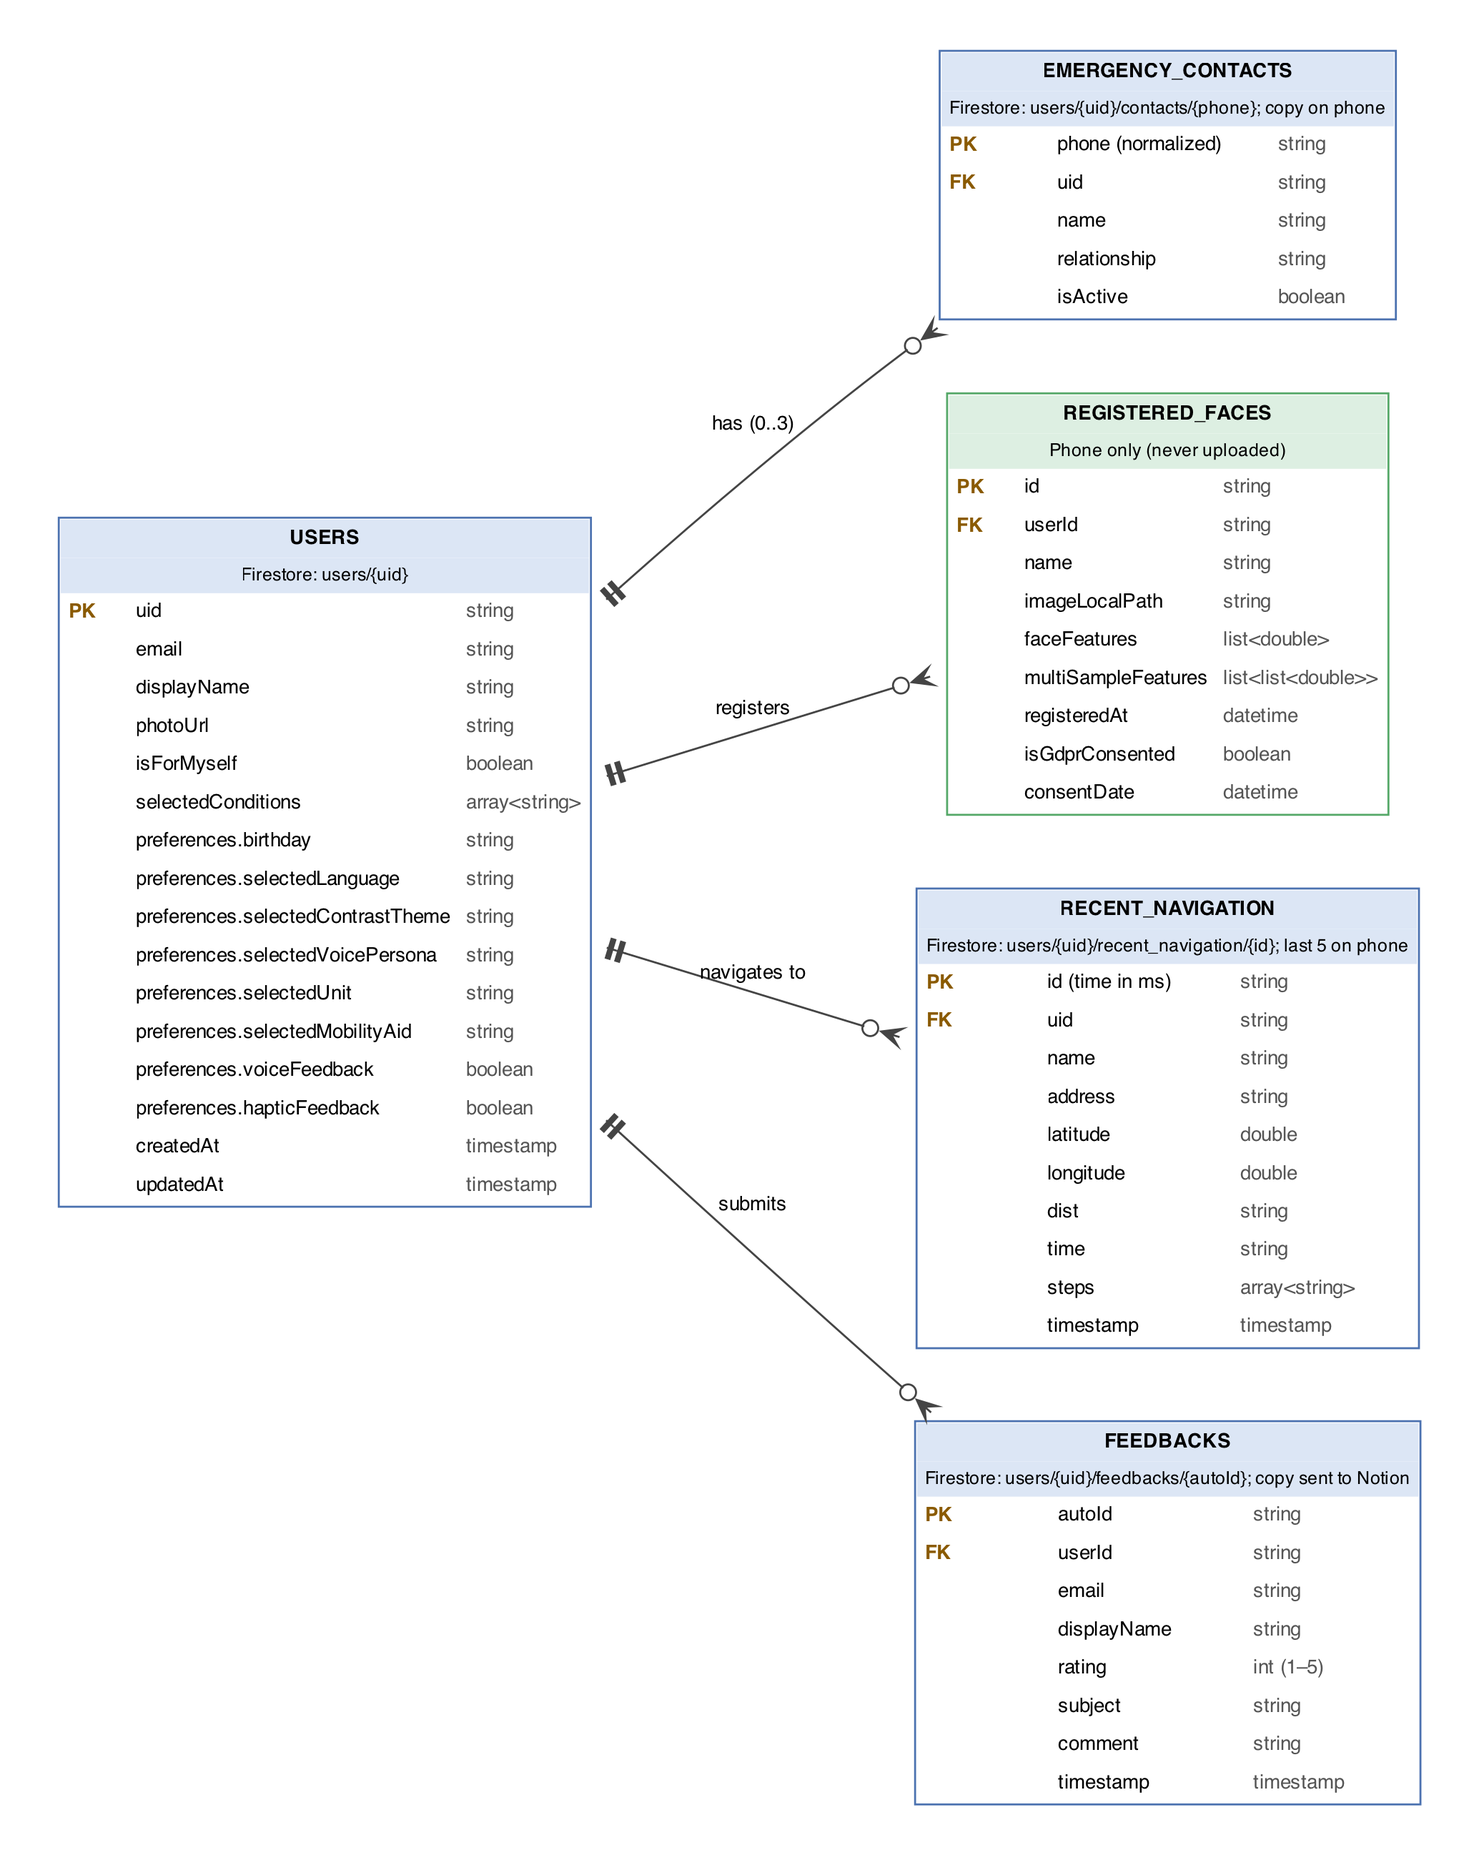
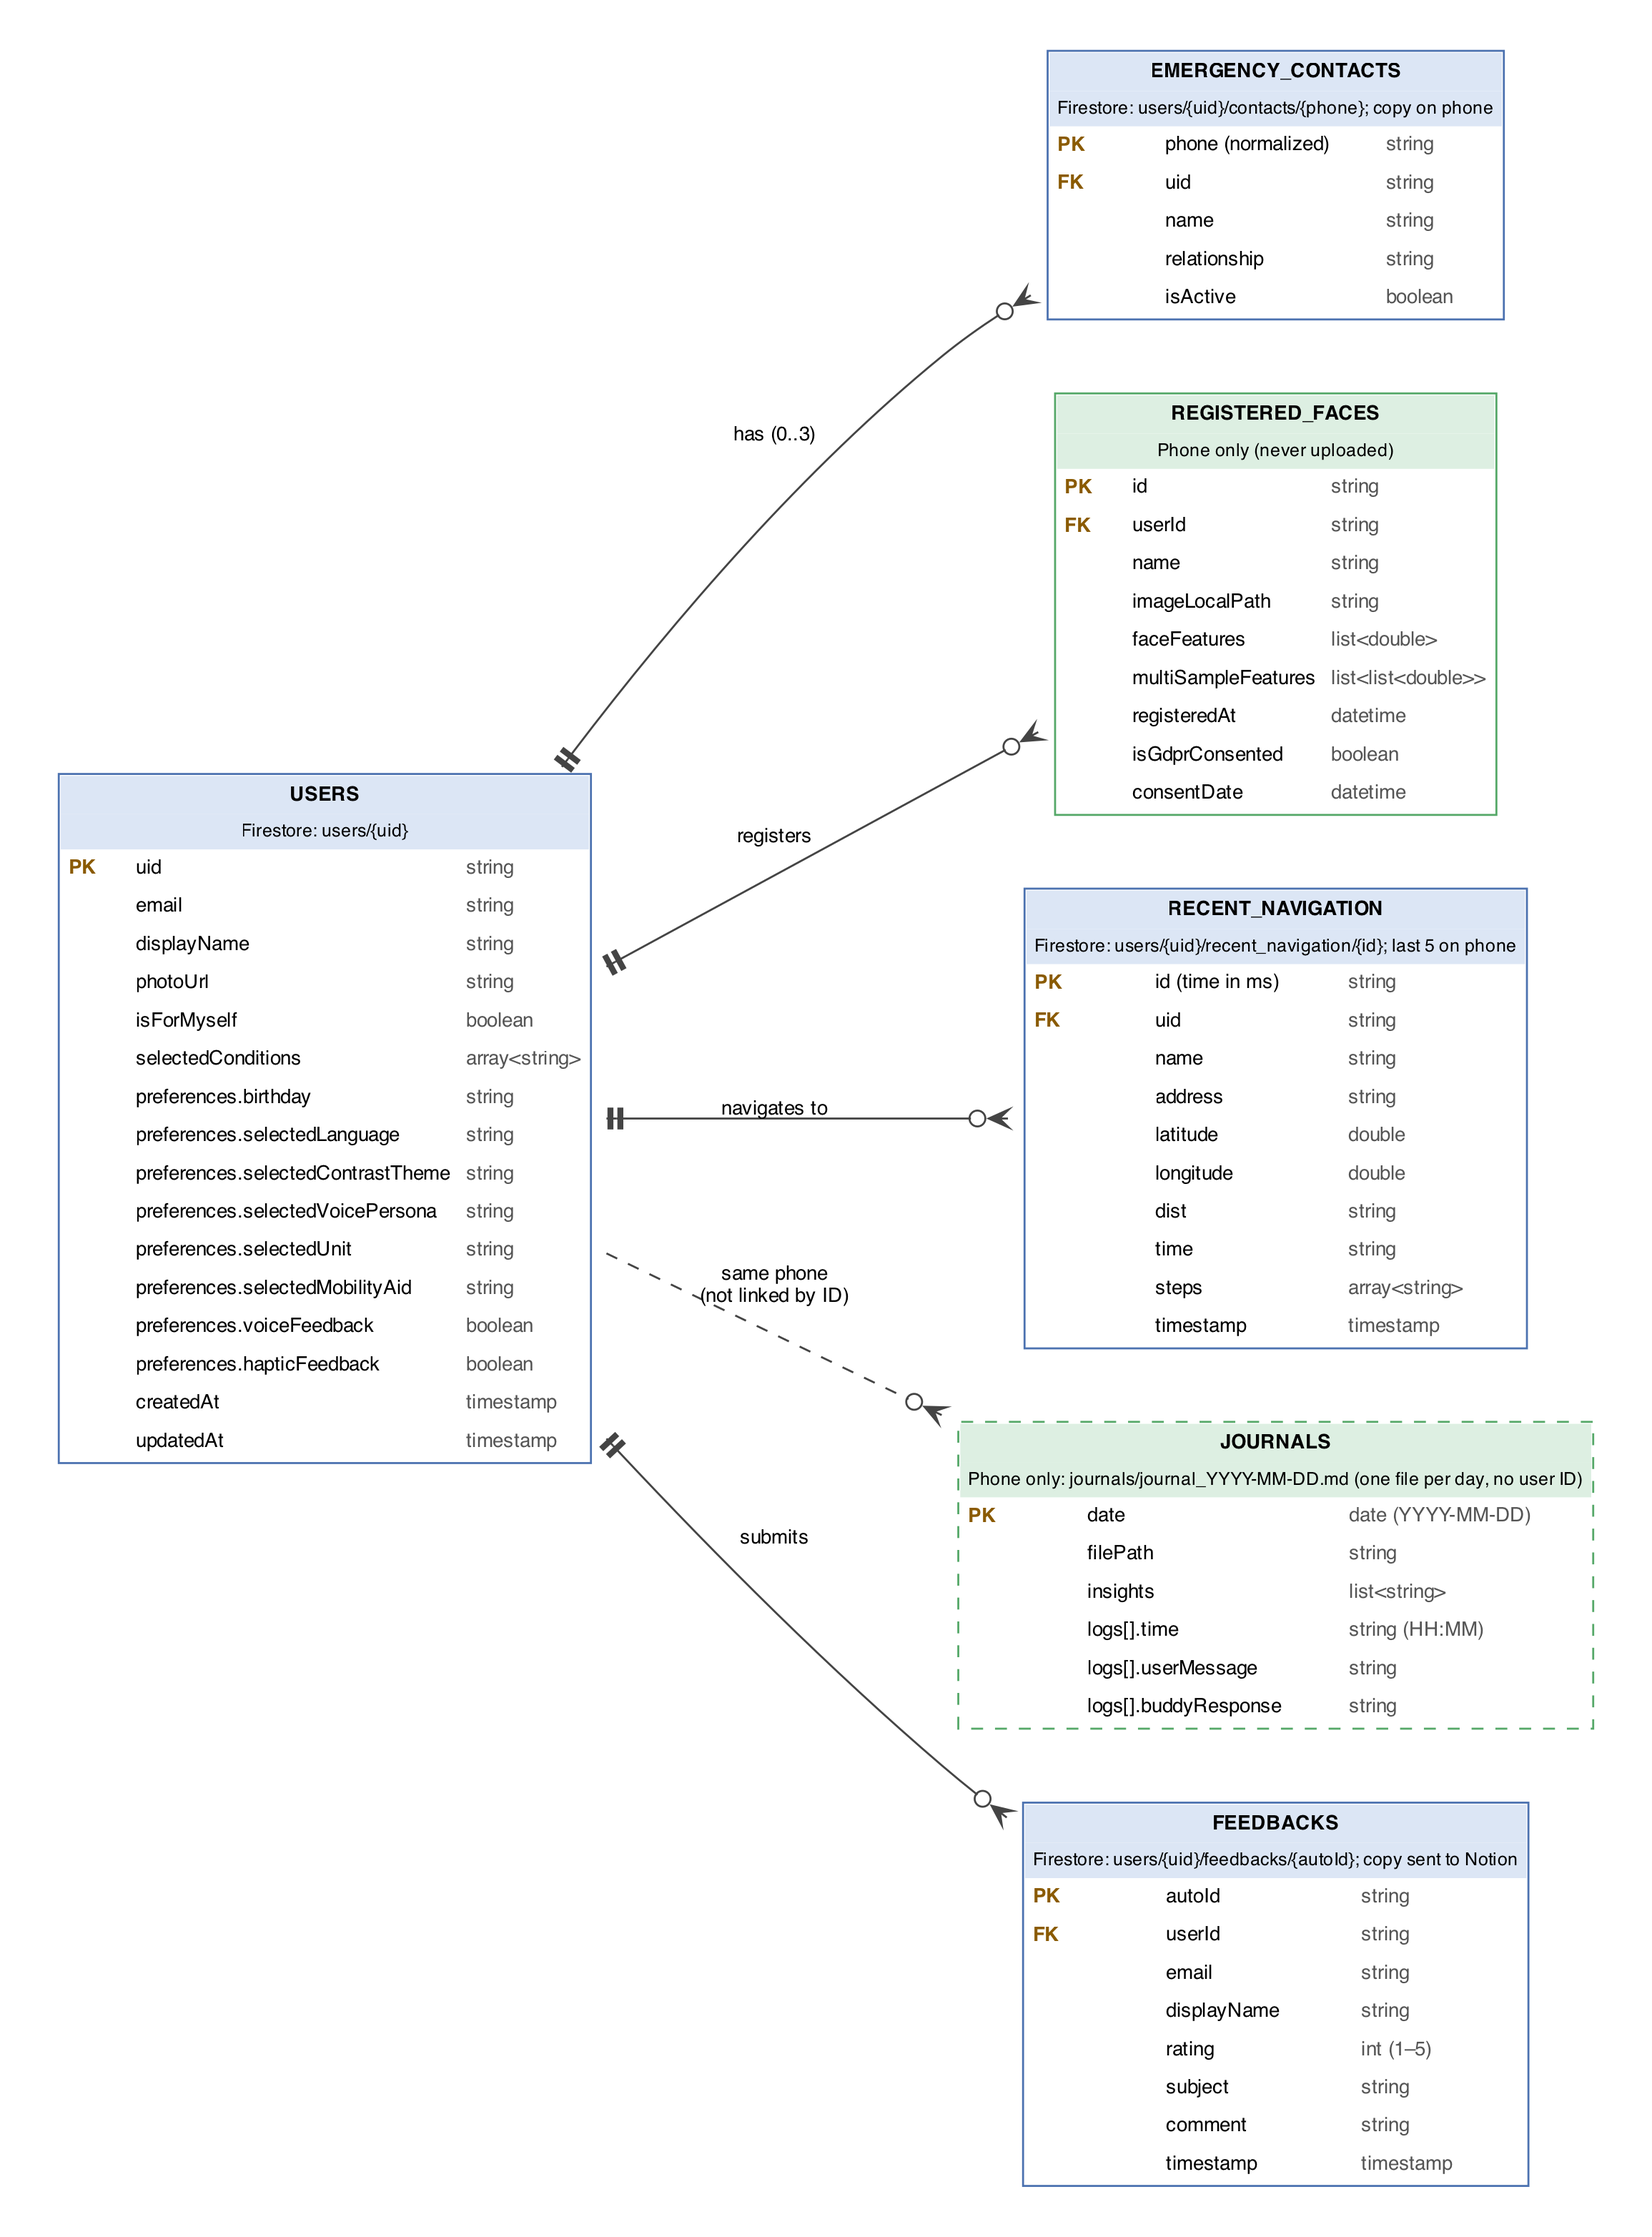
docs(figures): add JOURNAL entity to Appendix F ERDs

diff --git a/docs/figures/10_appendix_f_entity_relationship.md b/docs/figures/10_appendix_f_entity_relationship.md
@@ -1,6 +1,6 @@
 # Appendix F: Entity Relationship Diagrams
 
-Both diagrams show the data EasyLens actually stores, checked against the current code (`upstream/main`, commit `c10062e`). EasyLens has no SQL database: account data is stored in Google Cloud Firestore (a document database), and registered faces, settings and a copy of the emergency contacts are stored on the phone. In Figure F.2, each Firestore subcollection is shown as a table whose foreign key is the parent user document (`users/{uid}`).
+Both diagrams show the data EasyLens actually stores, checked against the current code (`upstream/main`, commit `c10062e`). EasyLens has no SQL database: account data is stored in Google Cloud Firestore (a document database), and registered faces, Buddy's interaction journals, settings and a copy of the emergency contacts are stored on the phone. In Figure F.2, each Firestore subcollection is shown as a table whose foreign key is the parent user document (`users/{uid}`).
 
 ---
 
@@ -15,7 +15,7 @@ Both diagrams show the data EasyLens actually stores, checked against the curren
 Figure F.1
 Conceptual Entity Relationship Diagram
 
-Note. Figure F.1 shows the main data entities in EasyLens and how they relate to the user, in Chen notation. A user can add up to three emergency contacts, and can register any number of faces, navigate to any number of destinations, and submit any number of feedback entries.
+Note. Figure F.1 shows the main data entities in EasyLens and how they relate to the user, in Chen notation. A user can add up to three emergency contacts, and can register any number of faces, navigate to any number of destinations, and submit any number of feedback entries. Buddy's conversations are logged in daily journals; the dashed line shows that journals are kept on the phone but are not linked to a user account.
 ```
 
 ### Source (Graphviz)
@@ -28,16 +28,18 @@ graph F1 {
 
   node [shape=box, style="filled,bold", fillcolor="#EEF3FB", color="#4C72B0", width=1.9, height=0.6];
   USER    [label="USER", pos="0,0!"];
-  CONTACT [label="EMERGENCY CONTACT", pos="5.2,2.2!"];
-  FACE    [label="REGISTERED FACE", pos="5.2,0.7!"];
-  DEST    [label="RECENT DESTINATION", pos="5.2,-0.8!"];
-  FB      [label="FEEDBACK", pos="5.2,-2.3!"];
+  CONTACT [label="EMERGENCY CONTACT", pos="5.2,3.0!"];
+  FACE    [label="REGISTERED FACE", pos="5.2,1.5!"];
+  DEST    [label="RECENT DESTINATION", pos="5.2,0!"];
+  FB      [label="FEEDBACK", pos="5.2,-1.5!"];
+  JOURNAL [label="JOURNAL", pos="5.2,-3.0!", style="filled,bold,dashed"];
 
   node [shape=diamond, style=filled, fillcolor="#FFF6E5", color="#DD8452", width=1.5, height=0.8, fontsize=11];
-  R1 [label="adds", pos="2.6,2.2!"];
-  R2 [label="registers", pos="2.6,0.7!"];
-  R3 [label="navigates to", pos="2.6,-0.8!"];
-  R4 [label="submits", pos="2.6,-2.3!"];
+  R1 [label="adds", pos="2.6,3.0!"];
+  R2 [label="registers", pos="2.6,1.5!"];
+  R3 [label="navigates to", pos="2.6,0!"];
+  R4 [label="submits", pos="2.6,-1.5!"];
+  R5 [label="talks to Buddy,\nlogged in", pos="2.6,-3.0!", width=1.9, height=1.0];
 
   USER -- R1 [headlabel="", taillabel="1", labeldistance=2.2];
   R1 -- CONTACT [headlabel="0..3", labeldistance=2.2];
@@ -47,6 +49,8 @@ graph F1 {
   R3 -- DEST [headlabel="0..N", labeldistance=2.2];
   USER -- R4 [taillabel="1", labeldistance=2.2];
   R4 -- FB [headlabel="0..N", labeldistance=2.2];
+  USER -- R5 [taillabel="1", labeldistance=2.2, style=dashed];
+  R5 -- JOURNAL [headlabel="0..N", labeldistance=2.2, style=dashed];
 }
 ```
 
@@ -63,7 +67,7 @@ graph F1 {
 Figure F.2
 Relational Entity Relationship Diagram
 
-Note. Figure F.2 lists the fields, data types, primary keys (PK) and foreign keys (FK) of each entity, in crow's foot notation, with where each is stored. USERS, EMERGENCY_CONTACTS, RECENT_NAVIGATION and FEEDBACKS are stored in Google Cloud Firestore; emergency contacts and the last five destinations are also kept on the phone. REGISTERED_FACES is stored only on the phone and is never uploaded. Submitted feedback is also copied to a Notion database.
+Note. Figure F.2 lists the fields, data types, primary keys (PK) and foreign keys (FK) of each entity, in crow's foot notation, with where each is stored. USERS, EMERGENCY_CONTACTS, RECENT_NAVIGATION and FEEDBACKS are stored in Google Cloud Firestore; emergency contacts and the last five destinations are also kept on the phone. REGISTERED_FACES and JOURNALS are stored only on the phone (shown in green). JOURNALS holds one file per day with Buddy's conversation logs and short notes about the user; it has no user ID, so every account signed in on the same phone shares it (dashed line). Submitted feedback is also copied to a Notion database.
 ```
 
 ### Source (Graphviz)
@@ -77,10 +81,12 @@ digraph F2 {
   CONTACTS [label=<<table border="1" cellborder="0" cellspacing="0" cellpadding="4" color="#4C72B0"><tr><td colspan="3" bgcolor="#DCE6F5"><b>EMERGENCY_CONTACTS</b></td></tr><tr><td colspan="3" bgcolor="#DCE6F5"><font point-size="9">Firestore: users/{uid}/contacts/{phone}; copy on phone</font></td></tr><tr><td align="left" width="34"><font color="#8A5A00"><b>PK</b></font></td><td align="left">phone (normalized)</td><td align="left"><font color="#555555">string</font></td></tr><tr><td align="left" width="34"><font color="#8A5A00"><b>FK</b></font></td><td align="left">uid</td><td align="left"><font color="#555555">string</font></td></tr><tr><td align="left" width="34"></td><td align="left">name</td><td align="left"><font color="#555555">string</font></td></tr><tr><td align="left" width="34"></td><td align="left">relationship</td><td align="left"><font color="#555555">string</font></td></tr><tr><td align="left" width="34"></td><td align="left">isActive</td><td align="left"><font color="#555555">boolean</font></td></tr></table>>];
   FACES [label=<<table border="1" cellborder="0" cellspacing="0" cellpadding="4" color="#55A868"><tr><td colspan="3" bgcolor="#DDEFE2"><b>REGISTERED_FACES</b></td></tr><tr><td colspan="3" bgcolor="#DDEFE2"><font point-size="9">Phone only (never uploaded)</font></td></tr><tr><td align="left" width="34"><font color="#8A5A00"><b>PK</b></font></td><td align="left">id</td><td align="left"><font color="#555555">string</font></td></tr><tr><td align="left" width="34"><font color="#8A5A00"><b>FK</b></font></td><td align="left">userId</td><td align="left"><font color="#555555">string</font></td></tr><tr><td align="left" width="34"></td><td align="left">name</td><td align="left"><font color="#555555">string</font></td></tr><tr><td align="left" width="34"></td><td align="left">imageLocalPath</td><td align="left"><font color="#555555">string</font></td></tr><tr><td align="left" width="34"></td><td align="left">faceFeatures</td><td align="left"><font color="#555555">list&lt;double&gt;</font></td></tr><tr><td align="left" width="34"></td><td align="left">multiSampleFeatures</td><td align="left"><font color="#555555">list&lt;list&lt;double&gt;&gt;</font></td></tr><tr><td align="left" width="34"></td><td align="left">registeredAt</td><td align="left"><font color="#555555">datetime</font></td></tr><tr><td align="left" width="34"></td><td align="left">isGdprConsented</td><td align="left"><font color="#555555">boolean</font></td></tr><tr><td align="left" width="34"></td><td align="left">consentDate</td><td align="left"><font color="#555555">datetime</font></td></tr></table>>];
   DEST [label=<<table border="1" cellborder="0" cellspacing="0" cellpadding="4" color="#4C72B0"><tr><td colspan="3" bgcolor="#DCE6F5"><b>RECENT_NAVIGATION</b></td></tr><tr><td colspan="3" bgcolor="#DCE6F5"><font point-size="9">Firestore: users/{uid}/recent_navigation/{id}; last 5 on phone</font></td></tr><tr><td align="left" width="34"><font color="#8A5A00"><b>PK</b></font></td><td align="left">id (time in ms)</td><td align="left"><font color="#555555">string</font></td></tr><tr><td align="left" width="34"><font color="#8A5A00"><b>FK</b></font></td><td align="left">uid</td><td align="left"><font color="#555555">string</font></td></tr><tr><td align="left" width="34"></td><td align="left">name</td><td align="left"><font color="#555555">string</font></td></tr><tr><td align="left" width="34"></td><td align="left">address</td><td align="left"><font color="#555555">string</font></td></tr><tr><td align="left" width="34"></td><td align="left">latitude</td><td align="left"><font color="#555555">double</font></td></tr><tr><td align="left" width="34"></td><td align="left">longitude</td><td align="left"><font color="#555555">double</font></td></tr><tr><td align="left" width="34"></td><td align="left">dist</td><td align="left"><font color="#555555">string</font></td></tr><tr><td align="left" width="34"></td><td align="left">time</td><td align="left"><font color="#555555">string</font></td></tr><tr><td align="left" width="34"></td><td align="left">steps</td><td align="left"><font color="#555555">array&lt;string&gt;</font></td></tr><tr><td align="left" width="34"></td><td align="left">timestamp</td><td align="left"><font color="#555555">timestamp</font></td></tr></table>>];
+  JOURNAL [label=<<table border="1" cellborder="0" cellspacing="0" cellpadding="4" color="#55A868" style="dashed"><tr><td colspan="3" bgcolor="#DDEFE2"><b>JOURNALS</b></td></tr><tr><td colspan="3" bgcolor="#DDEFE2"><font point-size="9">Phone only: journals/journal_YYYY-MM-DD.md (one file per day, no user ID)</font></td></tr><tr><td align="left" width="34"><font color="#8A5A00"><b>PK</b></font></td><td align="left">date</td><td align="left"><font color="#555555">date (YYYY-MM-DD)</font></td></tr><tr><td align="left" width="34"></td><td align="left">filePath</td><td align="left"><font color="#555555">string</font></td></tr><tr><td align="left" width="34"></td><td align="left">insights</td><td align="left"><font color="#555555">list&lt;string&gt;</font></td></tr><tr><td align="left" width="34"></td><td align="left">logs[].time</td><td align="left"><font color="#555555">string (HH:MM)</font></td></tr><tr><td align="left" width="34"></td><td align="left">logs[].userMessage</td><td align="left"><font color="#555555">string</font></td></tr><tr><td align="left" width="34"></td><td align="left">logs[].buddyResponse</td><td align="left"><font color="#555555">string</font></td></tr></table>>];
   FB [label=<<table border="1" cellborder="0" cellspacing="0" cellpadding="4" color="#4C72B0"><tr><td colspan="3" bgcolor="#DCE6F5"><b>FEEDBACKS</b></td></tr><tr><td colspan="3" bgcolor="#DCE6F5"><font point-size="9">Firestore: users/{uid}/feedbacks/{autoId}; copy sent to Notion</font></td></tr><tr><td align="left" width="34"><font color="#8A5A00"><b>PK</b></font></td><td align="left">autoId</td><td align="left"><font color="#555555">string</font></td></tr><tr><td align="left" width="34"><font color="#8A5A00"><b>FK</b></font></td><td align="left">userId</td><td align="left"><font color="#555555">string</font></td></tr><tr><td align="left" width="34"></td><td align="left">email</td><td align="left"><font color="#555555">string</font></td></tr><tr><td align="left" width="34"></td><td align="left">displayName</td><td align="left"><font color="#555555">string</font></td></tr><tr><td align="left" width="34"></td><td align="left">rating</td><td align="left"><font color="#555555">int (1–5)</font></td></tr><tr><td align="left" width="34"></td><td align="left">subject</td><td align="left"><font color="#555555">string</font></td></tr><tr><td align="left" width="34"></td><td align="left">comment</td><td align="left"><font color="#555555">string</font></td></tr><tr><td align="left" width="34"></td><td align="left">timestamp</td><td align="left"><font color="#555555">timestamp</font></td></tr></table>>];
   USERS -> CONTACTS [arrowtail=teetee, arrowhead=crowodot, label="has (0..3)"];
   USERS -> FACES [arrowtail=teetee, arrowhead=crowodot, label="registers"];
   USERS -> DEST [arrowtail=teetee, arrowhead=crowodot, label="navigates to"];
   USERS -> FB [arrowtail=teetee, arrowhead=crowodot, label="submits"];
+  USERS -> JOURNAL [arrowtail=none, arrowhead=crowodot, style=dashed, label="same phone\n(not linked by ID)"];
 }
 ```
